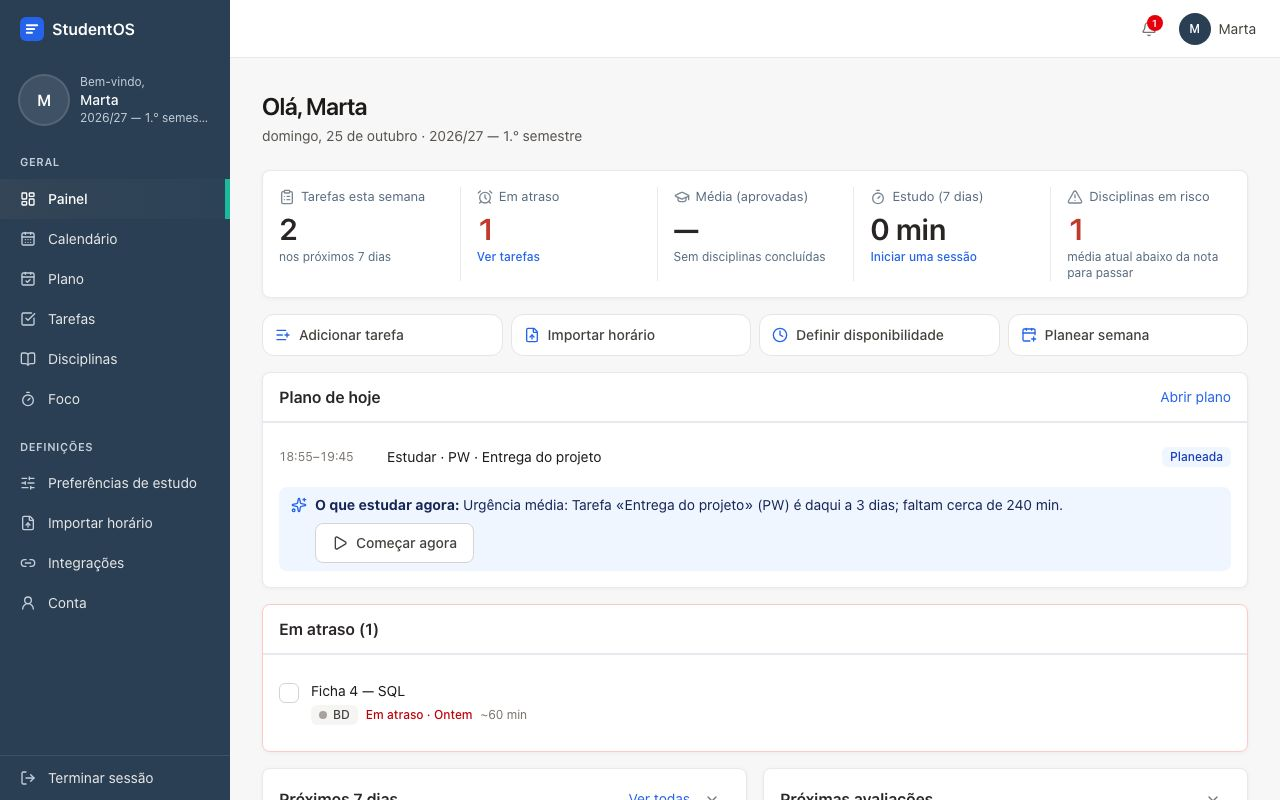
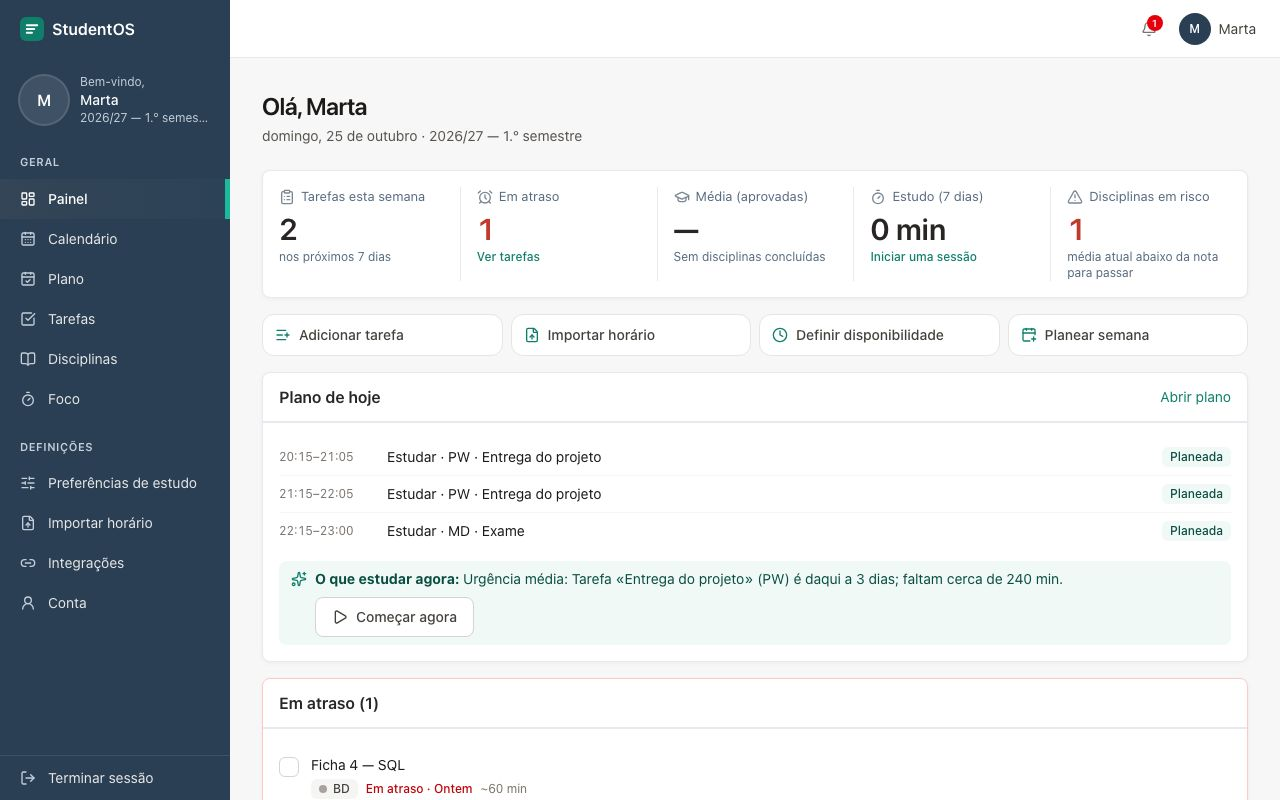
Cor: um só acento verde-azulado da marca, com contraste AA
O azul por defeito do Tailwind (#2563EB) ao lado do verde Gentelella era o
sinal mais claro de app genérica. Passa a haver um só acento derivado do
verde-azulado da marca (#1ABB9C escurecido até #0F7F6B): 4,9:1 sobre branco
e com texto branco, 4,6:1 sobre o fundo da página. Tokens accent, -hover,
-soft e -ink; o tom «blue» dos selos passa a «accent»; logótipo na mesma cor.
Pesquisa e contrastes em docs/research/cores.md; captura da página de entrada
refeita. axe sem violações sérias.

diff --git a/apps/web/src/components/TodayPlan.tsx b/apps/web/src/components/TodayPlan.tsx
@@ -97,7 +97,7 @@ export function TodayPlan() {
                   <span className="min-w-0 flex-1 truncate text-sm text-stone-900">
                     {studyTitle(s.task?.title ?? s.assessment?.name, s.discipline?.code)}
                   </span>
-                  <Badge tone={s.status === 'COMPLETED' ? 'green' : s.status === 'MISSED' ? 'red' : 'blue'}>
+                  <Badge tone={s.status === 'COMPLETED' ? 'green' : s.status === 'MISSED' ? 'red' : 'accent'}>
                     {statusLabels[s.status]}
                   </Badge>
                 </li>
@@ -129,7 +129,7 @@ function SuggestionBox({ suggestion }: { suggestion: Suggestion }) {
   const inProgress = start.error instanceof ApiError && start.error.code === 'STUDY_SESSION_IN_PROGRESS';
 
   return (
-    <div className="space-y-2 rounded-lg bg-accent-soft px-3 py-2 text-sm text-blue-950">
+    <div className="space-y-2 rounded-lg bg-accent-soft px-3 py-2 text-sm text-accent-ink">
       <p className="flex gap-2">
         <Sparkles aria-hidden="true" className="mt-0.5 size-4 shrink-0 text-accent" />
         <span>

diff --git a/apps/web/src/index.css b/apps/web/src/index.css
@@ -2,9 +2,11 @@
 
 /* Tokens de design (secção 13.3 da especificação) */
 @theme {
-  --color-accent: #2563eb;
-  --color-accent-hover: #1d4ed8;
-  --color-accent-soft: #eff6ff;
+  /* Acento único derivado do verde-azulado da marca (#1abb9c), escurecido até AA (docs/research/cores.md) */
+  --color-accent: #0f7f6b; /* 4,9:1 sobre branco, também como fundo de texto branco */
+  --color-accent-hover: #0b6656;
+  --color-accent-soft: #f0f9f6; /* texto accent por cima: 4,6:1 */
+  --color-accent-ink: #0a4d41; /* texto escuro sobre accent-soft: 9,1:1 */
   /* Estilo Gentelella (docs/research/gentelella.md), com os ajustes de contraste AA */
   --color-sidebar: #2a3f54;
   --color-sidebar-hover: #2f4a62;
@@ -13,7 +15,6 @@
   --color-sidebar-text: #e7e7e7;
   --color-sidebar-muted: #c4cfda;
   --color-brand: #1abb9c; /* só decorativo (indicador ativo, barras): 2,4:1 sobre branco */
-  --color-brand-text: #0f7f6b;
   --color-page: #f7f7f7;
   --color-panel-border: #e6e9ed;
   --font-sans: 'Inter', ui-sans-serif, system-ui, -apple-system, 'Segoe UI', Roboto, sans-serif;

diff --git a/apps/web/src/pages/PlanPage.tsx b/apps/web/src/pages/PlanPage.tsx
@@ -33,7 +33,7 @@ const statusLabels: Record<PlannedSession['status'], string> = {
   MISSED: 'Falhada',
   CANCELLED: 'Retirada',
 };
-const statusTone = { PLANNED: 'blue', COMPLETED: 'green', MISSED: 'red', CANCELLED: 'neutral' } as const;
+const statusTone = { PLANNED: 'accent', COMPLETED: 'green', MISSED: 'red', CANCELLED: 'neutral' } as const;
 
 const longDay = new Intl.DateTimeFormat('pt-PT', { weekday: 'long', day: 'numeric', month: 'long', timeZone: TZ });
 
@@ -204,7 +204,7 @@ function DraftPanel({ draft, onDone }: { draft: PlanView; onDone: () => void }) 
     >
       <div className="space-y-4 text-sm">
         <div className="flex flex-wrap gap-2">
-          <Badge tone="blue">
+          <Badge tone="accent">
             {p.sessions.length} sessões novas · {total} min
           </Badge>
           {p.removals.length > 0 && <Badge tone="amber">{p.removals.length} sessões futuras substituídas</Badge>}

diff --git a/apps/web/src/components/TransferCard.tsx b/apps/web/src/components/TransferCard.tsx
@@ -83,7 +83,7 @@ function SendSection() {
       ) : all.length === 0 ? (
         <EmptyState message="Esta conta não tem disciplinas ativas para transferir." />
       ) : created ? (
-        <div className="space-y-2 rounded-lg bg-accent-soft p-3 text-blue-950">
+        <div className="space-y-2 rounded-lg bg-accent-soft p-3 text-accent-ink">
           <p>Na outra conta, abre Conta → Transferir disciplinas → Receber, e cola este código:</p>
           <p className="flex items-center gap-2">
             <span className="font-mono text-2xl font-semibold tracking-widest" aria-label="Código gerado">

diff --git a/apps/web/src/components/SemesterManager.tsx b/apps/web/src/components/SemesterManager.tsx
@@ -102,7 +102,7 @@ export function SemesterManager({ onClose }: { onClose: () => void }) {
                   <div className="min-w-0">
                     <p className="flex flex-wrap items-center gap-2 text-sm font-medium text-stone-900">
                       {s.label}
-                      {s.isActive && <Badge tone="blue">Ativo</Badge>}
+                      {s.isActive && <Badge tone="accent">Ativo</Badge>}
                     </p>
                     <p className="text-xs text-stone-500">
                       {formatDate(s.startDate)} – {formatDate(s.endDate)}

diff --git a/apps/web/src/components/SessionsCard.tsx b/apps/web/src/components/SessionsCard.tsx
@@ -61,7 +61,7 @@ export function SessionsCard() {
               <div className="min-w-0 flex-1">
                 <p className="flex flex-wrap items-center gap-2 text-sm text-stone-900">
                   {describeDevice(s.userAgent)}
-                  {s.current && <Badge tone="blue">Esta sessão</Badge>}
+                  {s.current && <Badge tone="accent">Esta sessão</Badge>}
                 </p>
                 <p className="text-xs text-stone-500">
                   Iniciada a {formatDateTime(s.createdAt)} · última atividade {formatDateTime(s.lastSeenAt)}

diff --git a/apps/web/src/pages/ImportPage.tsx b/apps/web/src/pages/ImportPage.tsx
@@ -464,7 +464,7 @@ function ImportItemCard({
         />
         <label htmlFor={checkboxId} className="min-w-0 flex-1">
           <span className="flex flex-wrap items-center gap-2">
-            <Badge tone={item.target === 'task' ? 'blue' : 'neutral'}>
+            <Badge tone={item.target === 'task' ? 'accent' : 'neutral'}>
               {item.target === 'task' ? 'Tarefa (prazo)' : blockKindLabels[item.kind]}
             </Badge>
             {item.recurrenceSummary && <span className="text-xs text-stone-500">{item.recurrenceSummary}</span>}

diff --git a/apps/web/src/pages/CalendarPage.tsx b/apps/web/src/pages/CalendarPage.tsx
@@ -172,7 +172,7 @@ function BlockDetails({ occurrence: o, onClose }: { occurrence: BlockOccurrence;
       <div className="space-y-3 text-sm">
         <div className="flex flex-wrap gap-2">
           <Badge>{blockKindLabels[o.kind]}</Badge>
-          {o.recurring && <Badge tone="blue">Série recorrente</Badge>}
+          {o.recurring && <Badge tone="accent">Série recorrente</Badge>}
           {!o.isBusy && <Badge>Não bloqueia estudo</Badge>}
           {o.conflict && <Badge tone="red">Em conflito com outro evento</Badge>}
         </div>

diff --git a/apps/web/src/components/ui.tsx b/apps/web/src/components/ui.tsx
@@ -283,14 +283,14 @@ export function Badge({
   tone = 'neutral',
 }: {
   children: ReactNode;
-  tone?: 'neutral' | 'green' | 'red' | 'amber' | 'blue';
+  tone?: 'neutral' | 'green' | 'red' | 'amber' | 'accent';
 }) {
   const tones = {
     neutral: 'bg-stone-100 text-stone-700',
     green: 'bg-green-50 text-green-800',
     red: 'bg-red-50 text-red-800',
     amber: 'bg-amber-50 text-amber-900',
-    blue: 'bg-accent-soft text-blue-800',
+    accent: 'bg-accent-soft text-accent-ink',
   };
   return (
     <span

diff --git a/apps/web/src/components/DashboardWidgets.tsx b/apps/web/src/components/DashboardWidgets.tsx
@@ -125,7 +125,7 @@ export function SetupProgress({ data }: { data: Dashboard }) {
         {steps.map((s) => (
           <li key={s.label} className="flex items-center gap-2 text-sm">
             {s.done ? (
-              <CheckCircle2 aria-hidden="true" className="size-4 text-brand-text" />
+              <CheckCircle2 aria-hidden="true" className="size-4 text-accent" />
             ) : (
               <Circle aria-hidden="true" className="size-4 text-[#7B8794]" />
             )}

diff --git a/apps/web/src/components/WeekView.tsx b/apps/web/src/components/WeekView.tsx
@@ -88,7 +88,7 @@ const variantClass: Record<TimedItem['variant'], string> = {
   class: 'border-l-4 bg-stone-100 text-stone-900',
   event: 'border border-stone-300 bg-white text-stone-900',
   free: 'border border-dashed border-stone-300 bg-white/70 text-stone-600',
-  study: 'border-l-4 border-accent bg-accent-soft text-blue-950',
+  study: 'border-l-4 border-accent bg-accent-soft text-accent-ink',
 };
 
 export function WeekView({

diff --git a/e2e/screenshots.spec.ts b/e2e/screenshots.spec.ts
@@ -82,7 +82,7 @@ test('painel com dados de exemplo', async ({ page }, testInfo) => {
   }
   const everyDay = [1, 2, 3, 4, 5, 6, 7].flatMap((weekday) => [
     { weekday, startMinute: 9 * 60, endMinute: 12 * 60 },
-    { weekday, startMinute: 14 * 60, endMinute: 20 * 60 },
+    { weekday, startMinute: 14 * 60, endMinute: 23 * 60 },
   ]);
   await api(page, 'PUT', '/preferences/study', {
     sessionMinutes: 50,
